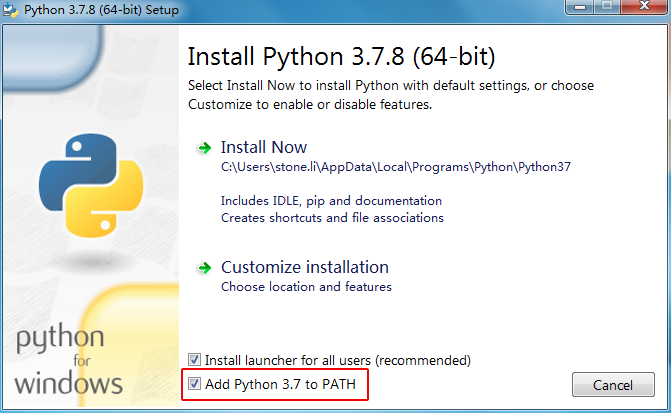
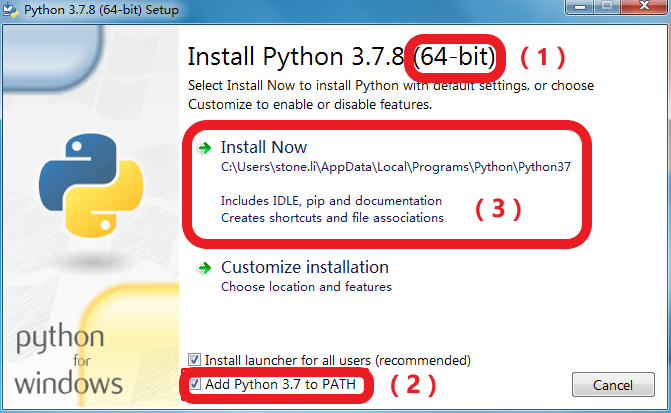
update the doc of python sdk

diff --git a/docs/source/code_env_setup.rst b/docs/source/code_env_setup.rst
@@ -14,26 +14,35 @@
 
 **环境：** Windows 10 64 位
 
-1. 从 `python 官网上 <https://www.python.org/downloads/>`_ 找到可以下载的安装包，以Python3.7.8 为例，选择安装文件进行下载。
+1. 从 `python 官网上 <https://www.python.org/downloads/windows/>`_ 找到可以下载的安装包，以Python3.7.8 为例，选择安装文件进行下载。
+
+.. warning:: 请确保下载的 `python.exe` 是64位的，否则会影响python sdk的使用，切记。
 
 .. image:: ./images/win_python_setup1.png
 
-2. 双击下载好的安装文件，然后点击“下一步”，需要注意的是，我们应该选择自定义安装并勾选自动添加环境变量，如下图所示。
+
+2. 步骤（1）：确认安装包版本是 ``64-bit``, 否则会影响Python sdk使用。
+
+   步骤（2）：勾选 ``Add Python 3.7 to Path``。
+
+   步骤（3）：选择 ``Install Now`` 进行安装，如下图所示。
 
 .. image:: ./images/win_python_setup2.png
 
-3. 点击“下一步”，手动选择安装路径，如下图所示。
 
-.. image:: ./images/win_python_setup3.png
+3. 安装完成后按 ``win+r``，在弹出窗口中输入 ``cmd`` 打开命令提示符界面，在命令行里面输入 ``python``, 确认 Python 3.7.8 安装成功。
 
-4. 安装完成后按 ``win+r``，在弹出窗口中输入 ``cmd`` 打开命令提示符界面，在命令行里面输入 ``python -V``, 确认 Python 3.7.8 安装成功。
+.. image:: ./images/python_version.png
+
+.. note:: cmd窗口会显示对应的版本信息，否则，请从第一步重新安装
+
 
 在 Ubuntu 上安装 Python
 -------------------------
 
 **环境：** ubuntu 16.04 64 位，Python 3.7.8
 
-1. Ubuntu16.04 默认安装了Python2.7和3.5，输入命令 ``python -V``，可以查看 Python 默认版本。请注意，系统自带的python千万不能卸载。
+1. Ubuntu16.04 默认安装了Python2.7和3.5，输入命令 ``python``，可以查看 Python 默认版本。请注意，系统自带的python千万不能卸载。
 
 2. 输入如下命令安装 python 3.7 软件包：
 
@@ -52,6 +61,6 @@
 		sudo update-alternatives --install /usr/bin/python python /usr/bin/python2 100
 		sudo update-alternatives --install /usr/bin/python python /usr/bin/python3 150
 
-4. 此时再输入命令 ``python -V`` ，确认 Python 3.7 安装成功。
+4. 此时再输入命令 ``python`` ，确认 Python 3.7 安装成功。
 
 

diff --git a/docs/source/python_sdk/installs.rst b/docs/source/python_sdk/installs.rst
@@ -10,7 +10,13 @@ RoboMaster SDK 安装
 安装 SDK 到 Windows平台
 -------------------------
 
-安装指导。
+开发环境准备
+~~~~~~~~~~~~~~~~~~~~~~~~~~~~~~~~
+
+.. tip:: 在使用python sdk前，需要确保编程平台端安装对应的python环境，如果没有，请参考以下链接进行安装： :doc:`python编程环境安装 <./../code_env_setup>`
+
+安装robomaster python sdk
+~~~~~~~~~~~~~~~~~~~~~~~~~~~~~~~~
 
 
 安装RoboMaster SDK，可输入以下指令::
